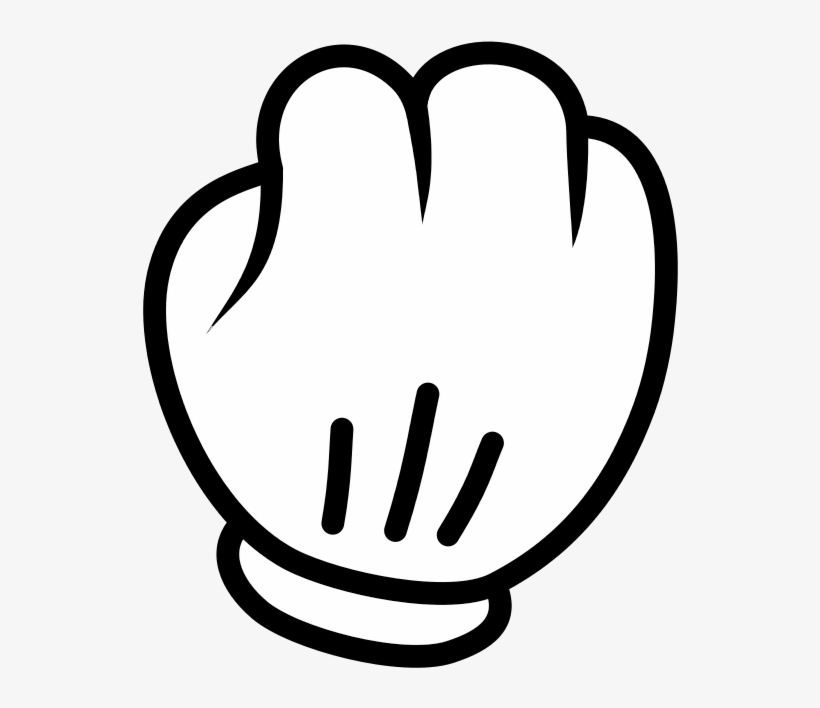
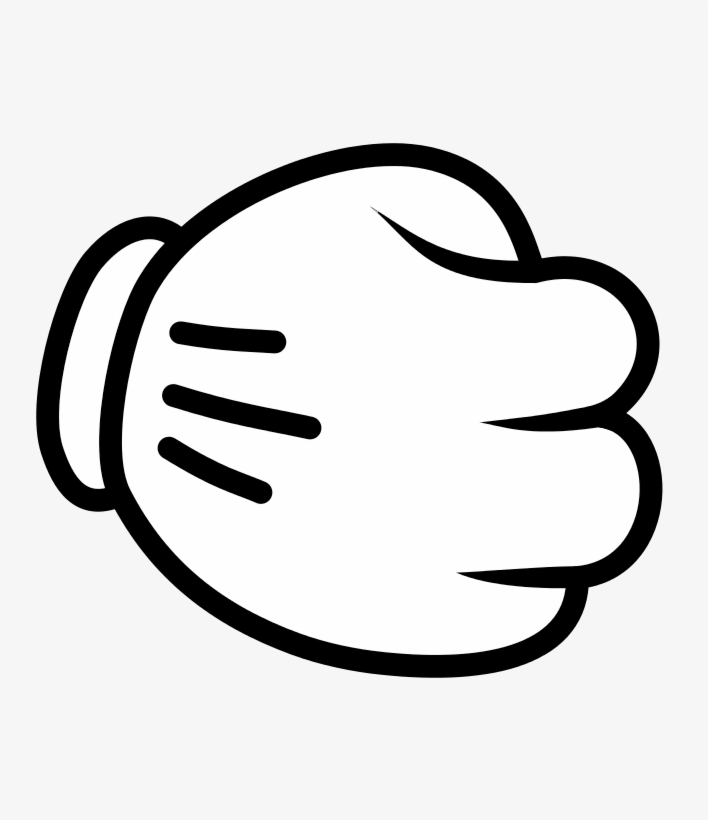
Change images orientation and text styling

Changed region(s): [[0.0311, 0.0311, 0.9633, 0.9633]]

diff --git a/style.css b/style.css
@@ -8,7 +8,7 @@ body {
 .header {
     display: flex;
     justify-content: center;
-    color: cadetblue;   
+    color: rgb(52, 14, 155);   
     padding: 0px;
     font-size: x-large;
 }
@@ -16,15 +16,48 @@ body {
 .container {
     display: flex;
     flex-direction: column;
-    justify-content: center;
+    justify-content: space-between;
     align-items: center;
     color: cadetblue;
 }
 
+.content {
+    color: rgb(52, 14, 155);
+    font-size: 25px;
+    margin-bottom: 10px;
+}
+
+.score {
+    color: rgb(52, 14, 155);
+    font-size: 35px;
+    font-weight: bold;
+}
+
+.result{
+    color: rgb(52, 14, 155);
+    font-size: 50px;
+    font-weight: bolder;
+    margin-bottom: 20px;
+}
+
+.res {
+    color: rgb(52, 14, 155);
+    font-size: 25px;
+    margin-bottom: 20px;
+}
 .buttons {
     display: flex;
-    justify-content: space-around;
+    justify-content: center;
+}
 
+.replay{
+    display: flex;
+    justify-content: center;
+}
+.reset{
+    height: 240px;
+    width: 240px;
+    margin-top: 50px;
 }
 img {
     width: 240px;
@@ -32,5 +65,6 @@ img {
 }
 
 button{
+    margin-left: 20px;
     padding: 0px;
 }

diff --git a/app.js b/app.js
@@ -3,10 +3,14 @@ const paper = document.querySelector('#paper')
 const scissors = document.querySelector('#scissors')
 const reset = document.querySelector('.reset')
 const container = document.querySelector('.container')
-    let content = document.createElement('p');
-    let score = document.createElement('p');
-    let result = document.createElement('p');
+    let content = document.createElement('div');
+    content.classList.add('content');
+    let score = document.createElement('div');
+    score.classList.add('score');
+    let result = document.createElement('div');
+    result.classList.add('result');
     let res = document.createElement('div');
+    res.classList.add('res');
         let round = 0;
         let COM = 0;
         let player = 0;

diff --git a/index.html b/index.html
@@ -14,7 +14,10 @@
         <button id="rock"><img src="images/rock.png" alt="Rock"></button>
         <button id="paper"><img src="images/paper.png" alt="Paper"></button>
         <button id="scissors"><img src="images/scissors.png" alt="scissors"></button>
+</div>
+    <div class="replay">
         <button class="reset">Reset</button>
     </div>
+
     <script src=app.js></script>
 </html>
